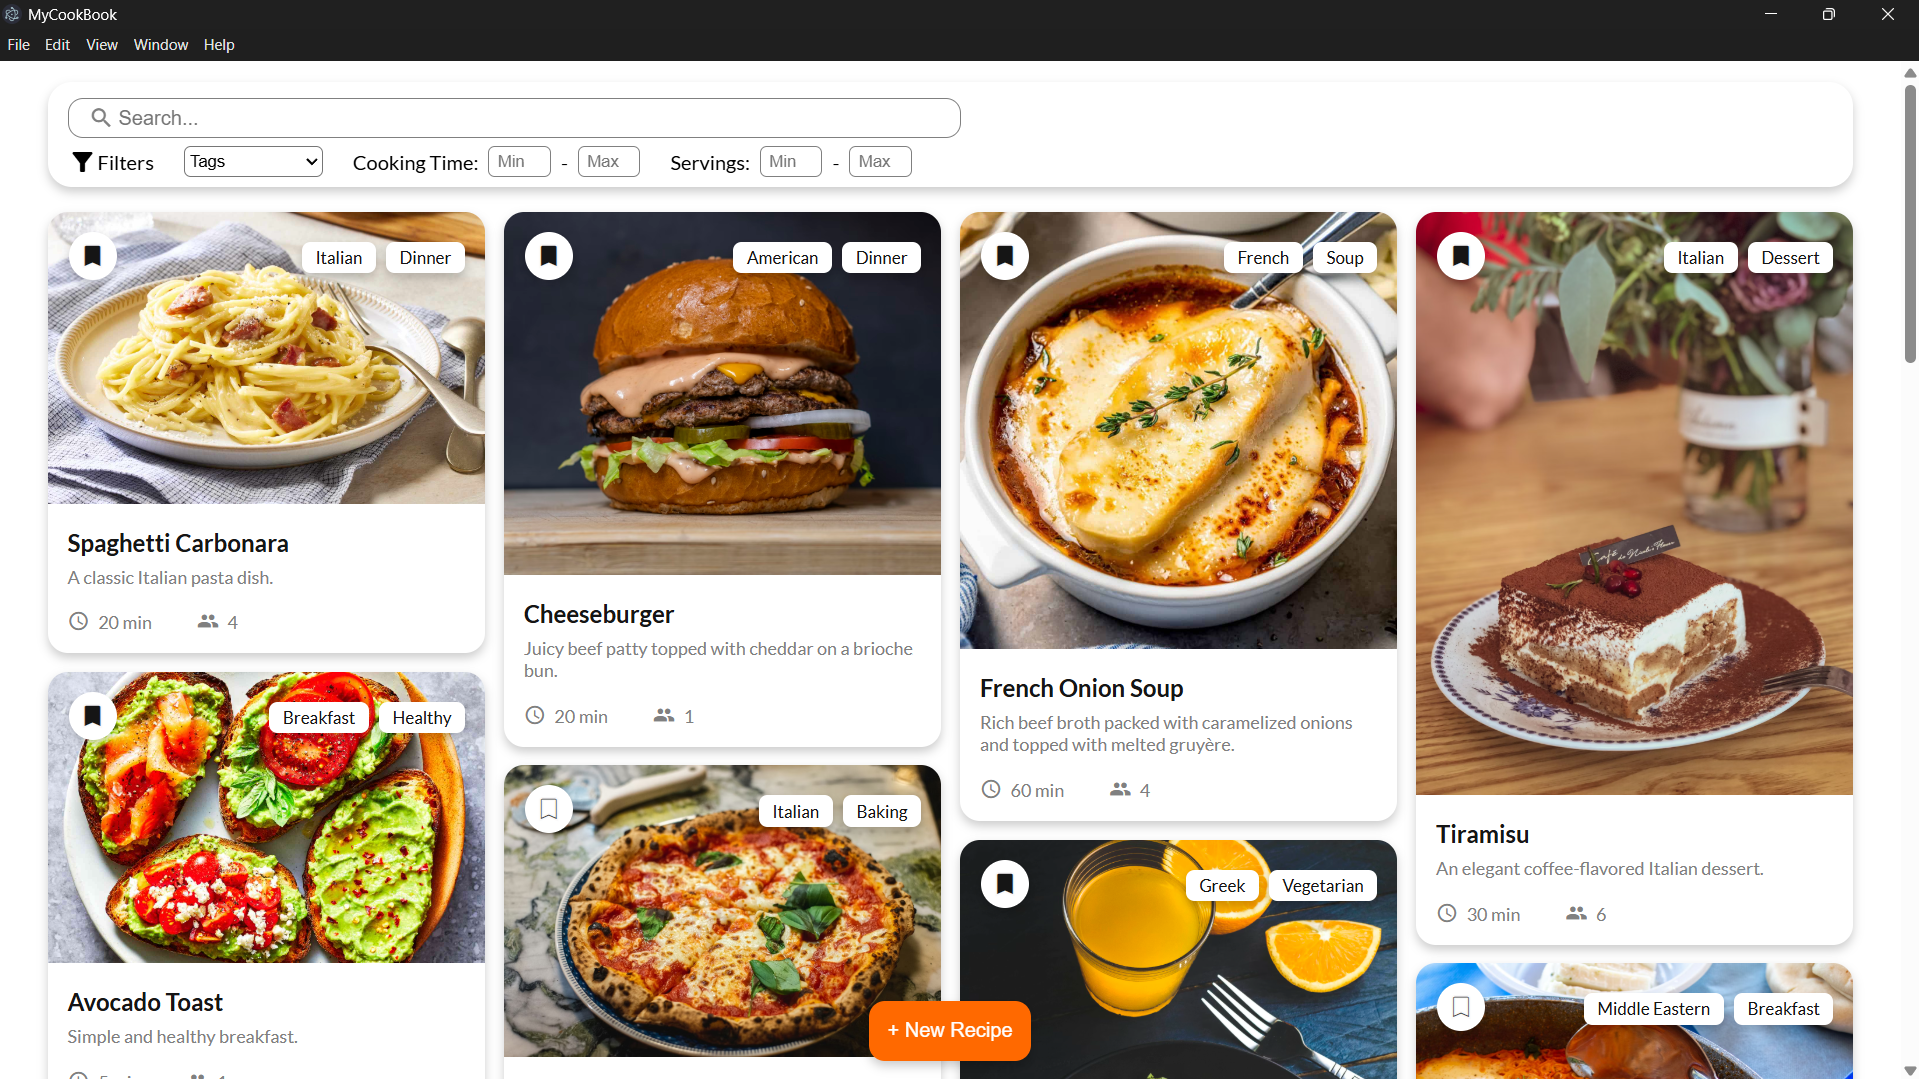
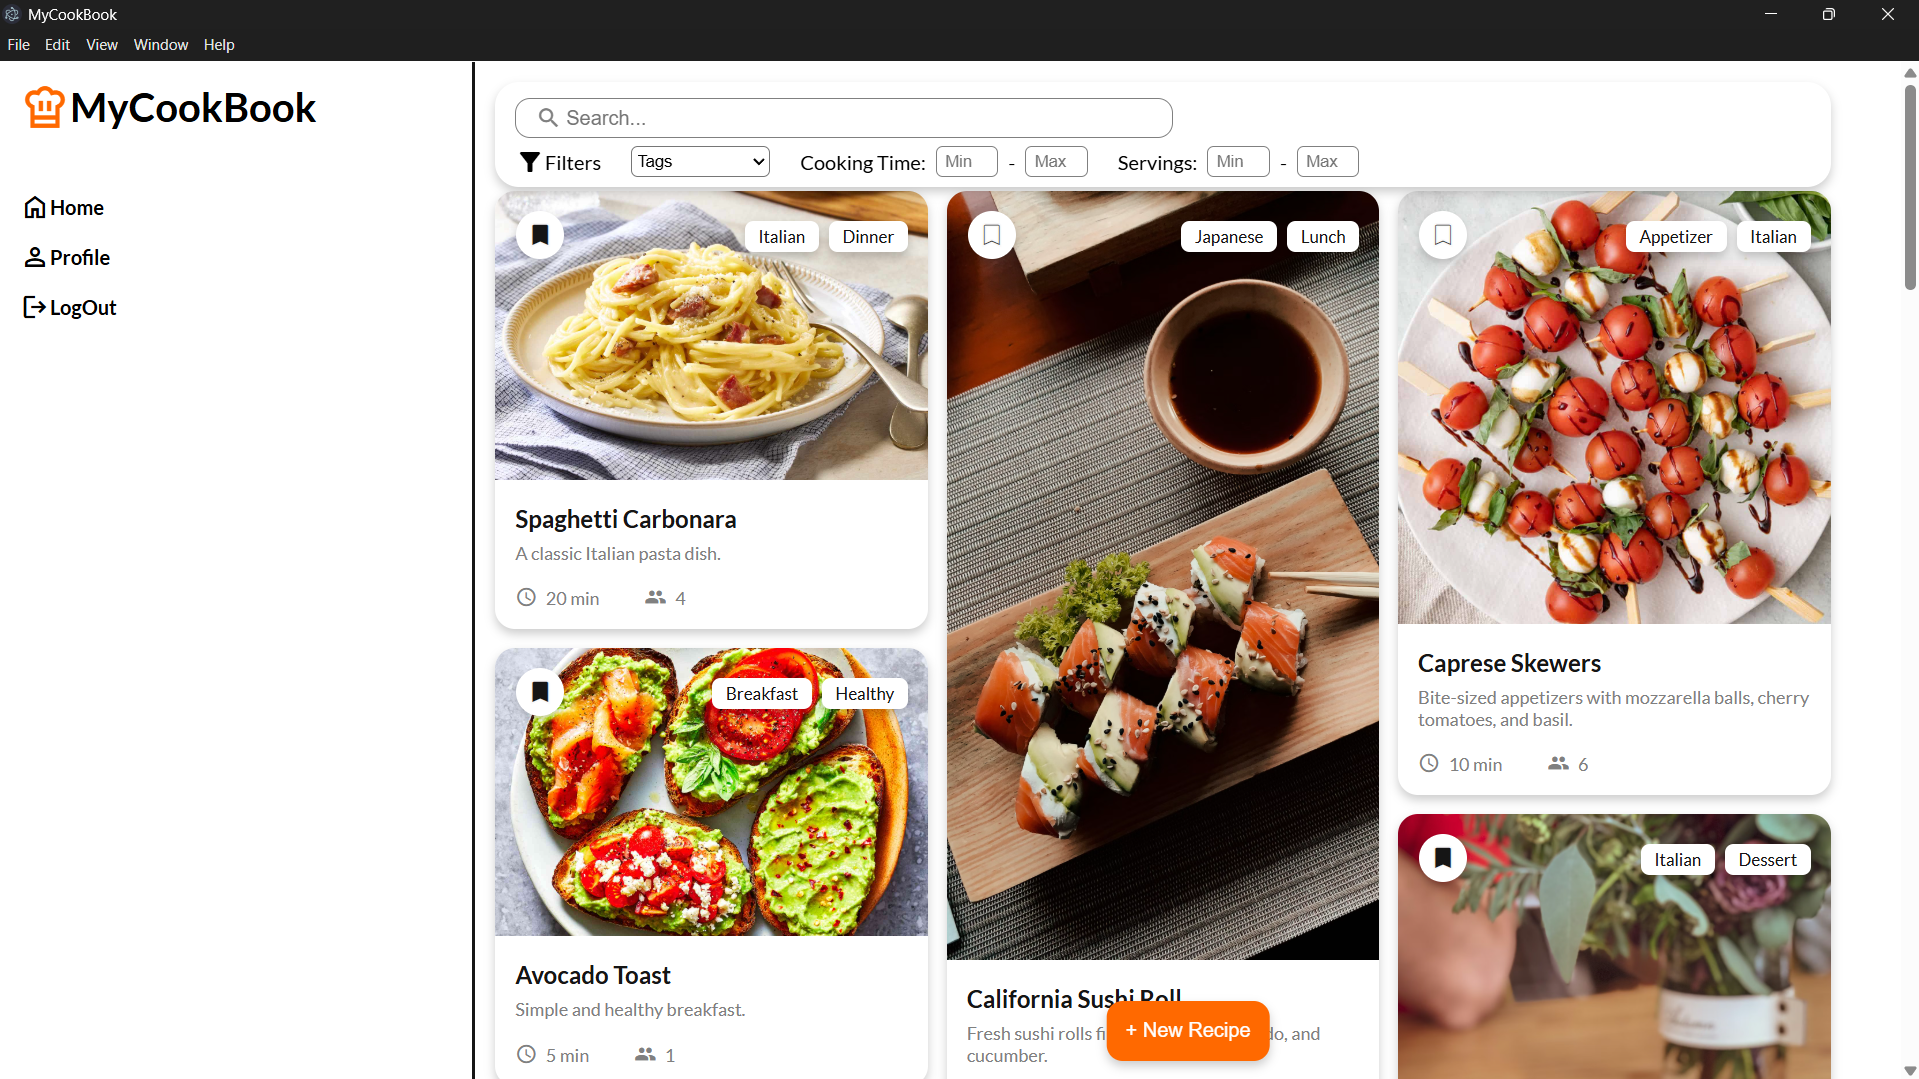
Fixed redirecting after creating recipe. CSS bug fixes regarding new nav tab.

diff --git a/src/frontend/app.js b/src/frontend/app.js
@@ -9,8 +9,11 @@ function App() {
   const [loginImage, setLoginImage] = useState(null);
 
   const [userId, setUserId] = useState(null);
+  const [comments, setComments] = useState([]); // Add comments state
 
   // Fetch data when app starts
+  const [refreshRecipes, setRefreshRecipes] = useState(0);
+
   useEffect(() => {
     const fetchRecipes = async () => {
       try {
@@ -19,7 +22,7 @@ function App() {
         setRecipes(data);
         setLoading(false);
 
-        if (data.length > 0) {
+        if (data.length > 0 && !loginImage) {
           setLoginImage(data[Math.floor(Math.random() * data.length)]?.picture);
         }
       } catch (error) {
@@ -29,7 +32,7 @@ function App() {
     };
 
     fetchRecipes();
-  }, [recipes.length]);
+  }, [refreshRecipes]);
 
   const [refreshComments, setRefreshComments] = useState(0);
 
@@ -90,6 +93,7 @@ function App() {
               .querySelector(".newRecipeContainer")
               .classList.add("hidden")
           }
+          onRecipeCreated={() => setRefreshRecipes((prev) => prev + 1)}
         />
       )}
 
@@ -98,6 +102,8 @@ function App() {
           recipe={recipes.find((recipe) => recipe._id === recipeId)}
           onBack={() => setView("home")}
           userId={userId}
+          comments={comments}
+          onCommentPosted={() => setRefreshComments(prev => prev + 1)}
         />
       )}
 

diff --git a/src/frontend/views/RecipeView.js b/src/frontend/views/RecipeView.js
@@ -169,11 +169,15 @@ function RecipeView({ recipe, comments, userId, onBack, onCommentPosted }) {
 
         <div className="commentsContainer">
           <h2>Comments</h2>
-          {comments && comments.length === 0 ? <p className="noComments">
-            There are no comments availble for this recipe. Be the first to share your opinion!</p>
-            : comments.map((comment, index) => (
+          {comments && comments.length > 0 ? (
+            comments.map((comment, index) => (
               <Comment key={index} comment={comment} />
-            ))}
+            ))
+          ) : (
+            <p className="noComments">
+              There are no comments availble for this recipe. Be the first to share your opinion!
+            </p>
+          )}
           <form onSubmit={handleSubmit}>
             <input
               type="text"

diff --git a/src/frontend/css/RecipeView.css b/src/frontend/css/RecipeView.css
@@ -1,20 +1,11 @@
-.recipeDetailsContainer {
-    width: 100%;
+.view-container a:first-child {
+    align-self: flex-start;
     display: flex;
-    flex-direction: column;
     align-items: center;
-    margin-bottom: 5%;
-
-    & a:first-child {
-        margin-left: 10%;
-        align-self: flex-start;
-        display: flex;
-        align-items: center;
-        gap: 5px;
-        margin-top: 2.5%;
-        margin-bottom: 2.5%;
-        cursor: pointer;
-    }
+    gap: 5px;
+    margin-top: 2.5%;
+    margin-bottom: 2.5%;
+    cursor: pointer;
 }
 
 .recipeContainer {
@@ -24,6 +15,7 @@
     overflow: hidden;
     box-shadow: 0 4px 8px 0 rgba(0, 0, 0, 0.2);
     background-color: var(--white);
+    margin-bottom: 2em;
 
     & img {
         width: 100%;

diff --git a/src/frontend/components/NewRecipe.jsx b/src/frontend/components/NewRecipe.jsx
@@ -1,4 +1,4 @@
-function NewRecipe({ onClose, userId }) {
+function NewRecipe({ onClose, userId, onRecipeCreated }) {
     const [title, setTitle] = React.useState('');
     const [description, setDescription] = React.useState('');
     const [selectedTags, setSelectedTags] = React.useState([]);
@@ -87,9 +87,8 @@ function NewRecipe({ onClose, userId }) {
 
             if (response.ok) {
                 alert('Recipe created successfully!');
+                if (onRecipeCreated) onRecipeCreated();
                 onClose();
-                // Optionally refresh recipes list here if possible, or force reload
-                window.location.reload();
             } else {
                 alert('Failed to create recipe');
             }

diff --git a/src/frontend/views/home.js b/src/frontend/views/home.js
@@ -1,4 +1,4 @@
-function HomeView({ recipes, userId, onSelect, onSelectNew, onCloseNew }) {
+function HomeView({ recipes, userId, onSelect, onSelectNew, onCloseNew, onRecipeCreated }) {
 
     const tags = [...new Set(recipes.flatMap(recipe => recipe.tags))];
 
@@ -60,7 +60,7 @@ function HomeView({ recipes, userId, onSelect, onSelectNew, onCloseNew }) {
                 )}
             </div>
             <button className="newRecipeButton" onClick={onSelectNew}>+ New Recipe</button>
-            <NewRecipe onClose={onCloseNew} userId={userId} />
+            <NewRecipe onClose={onCloseNew} userId={userId} onRecipeCreated={onRecipeCreated} />
         </div>
     );
 }

diff --git a/src/frontend/css/navbar.css b/src/frontend/css/navbar.css
@@ -1,7 +1,7 @@
-nav{
+nav {
     height: 100vh;
     position: sticky;
-    top:0;
+    top: 0;
     z-index: 1000;
 
     flex: 0 0 25%;
@@ -12,24 +12,26 @@ nav{
     gap: 1rem;
     border-right: 3px solid var(--black) !important;
     background-color: var(--white);
-    
 
-    &>*{
+
+    &>* {
         display: flex;
         align-items: center;
     }
-    &>h1{
+
+    &>h1 {
         position: relative;
         padding-bottom: 2rem;
 
-        &>span{
+        &>span {
             font-size: 2.5rem !important;
             color: var(--orange);
         }
 
     }
 
-    &>div{
+    &>div {
         font-weight: 600;
+        cursor: pointer;
     }
 }

diff --git a/src/frontend/css/HomeView.css b/src/frontend/css/HomeView.css
@@ -20,4 +20,5 @@
     width: 95%;
     column-width: 300px;
     column-gap: 15px;
+    margin-bottom: 2em;
 }
